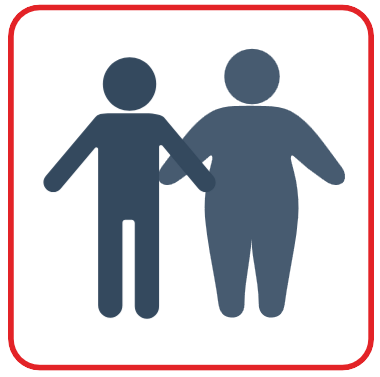
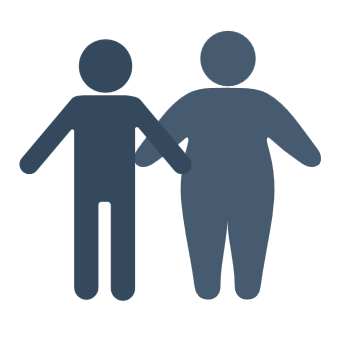
Updated snippets

Changed region(s): [[0.0, 0.0, 1.0, 1.0], [0.3824, 0.3529, 0.4412, 0.4412], [0.5294, 0.4118, 0.5588, 0.4706]]

diff --git a/index.html b/index.html
@@ -81,7 +81,9 @@
         <!-- Obesity -->
         <div class="dataset">
           <a href="modules/human_muscle_obesity.html">
+            <div class="framed-img">
             <img src="www/img/snippet/human_muscle_obesity.png" alt="Human Obesity">
+            </div>
             <h2>Obesity</h2>
           </a>
           <p>Human skeletal muscle alterations associated with obesity.</p>
@@ -90,7 +92,9 @@
         <!-- MetaMEx -->
         <div class="dataset">
           <a href="modules/MetaMEx.html">
-            <img src="www/img/snippet/MetaMEx.png" alt="MetaMEx" title="Explore MetaMEx">
+            <div class="framed-img">
+              <img src="www/img/snippet/MetaMEx.png" alt="MetaMEx" title="Explore MetaMEx">
+            </div>
             <h2>Exercise</h2>
           </a>
           <p>Transcriptomic adaptations to exercise and inactivity (MetaMEx).</p>
@@ -99,7 +103,9 @@
         <!-- Ageing -->
         <div class="dataset">
           <a href="modules/human_muscle_aging.html">
-            <img src="www/img/snippet/human_muscle_aging.png" alt="Aging muscle">
+            <div class="framed-img">
+              <img src="www/img/snippet/human_muscle_aging.png" alt="Aging muscle">
+            </div>
             <h2>Aging</h2>
           </a>
           <p>Skeletal muscle composition throughout the human lifespan.</p>
@@ -108,7 +114,9 @@
         <!-- VO2max -->
         <div class="dataset">
           <a href="modules/globalVO2max.html">
-            <img src="www/img/snippet/globalVO2max.png" alt="VO2max Reference">
+            <div class="framed-img">
+              <img src="www/img/snippet/globalVO2max.png" alt="VO2max Reference">
+            </div>
             <h2>V&#775;O<sub>2</sub>peak</h2>
           </a>
           <p>Worldwide reference values for peak oxygen uptake.</p>
@@ -127,7 +135,9 @@
         <!-- RNAseq -->
         <div class="dataset">
           <a href="modules/singleCellRNAseq.html">
-            <img src="www/img/snippet/singleCellRNAseq.png" alt="Single Cell RNAseq">
+            <div class="framed-img">
+               <img src="www/img/snippet/singleCellRNAseq.png" alt="Single Cell RNAseq">
+            </div>
             <h2>Single Cell</h2>
           </a>
           <p>Single-cell RNAseq of human skeletal muscle.</p>
@@ -136,7 +146,9 @@
         <!-- Fibers -->
         <div class="dataset">
           <a href="modules/fiber_types.html">
-            <img src="www/img/snippet/fiber_types.png" alt="Fiber Type">
+            <div class="framed-img">
+               <img src="www/img/snippet/fiber_types.png" alt="Fiber Type">
+            </div>
             <h2>Fiber Type</h2>
           </a>
           <p>Profiling of skeletal muscle type I and type II fibers.</p>
@@ -145,7 +157,9 @@
         <!-- Muscle Models -->
         <div class="dataset">
           <a href="modules/muscle_models.html">
-            <img src="www/img/snippet/muscle_models.png" alt="Muscle models">
+            <div class="framed-img">
+                <img src="www/img/snippet/muscle_models.png" alt="Muscle models">
+            </div>
             <h2>Muscle Models</h2>
           </a>
           <p>Transcriptome of C2C12, L6 and primary myotubes.</p>
@@ -154,7 +168,9 @@
         <!-- Sex -->       
         <div class="dataset">
           <a href="modules/human_muscle_sex.html">
-            <img src="www/img/snippet/human_muscle_sex.png" alt="Human Sex">
+            <div class="framed-img">
+              <img src="www/img/snippet/human_muscle_sex.png" alt="Human Sex">
+            </div>
             <h2>Sex</h2>
           </a>
           <p>Male and female skeletal muscle tissue and myotubes.</p>
@@ -173,7 +189,9 @@
         <!-- Clamp -->
         <div class="dataset">
           <a href="modules/muscle_clamp.html">
-            <img src="www/img/snippet/muscle_clamp.png" alt="Clamp in Human Muscle">
+            <div class="framed-img">
+              <img src="www/img/snippet/muscle_clamp.png" alt="Clamp in Human Muscle">
+            </div>
             <h2>Clamp</h2>
           </a>
           <p>Transcriptome of muscle under hyperinsulinemic euglycemic clamp.</p>
@@ -182,7 +200,9 @@
         <!-- Palmitate -->
         <div class="dataset">
           <a href="modules/myotube_palmitate.html">
-            <img src="www/img/snippet/myotube_palmitate.png" alt="Palmitate in Myotubes">
+            <div class="framed-img">
+              <img src="www/img/snippet/myotube_palmitate.png" alt="Palmitate in Myotubes">
+            </div>
             <h2>Palmitate</h2>
           </a>
           <p>Transcriptomic response of myotubes exposed to palmitate in vitro.</p>
@@ -191,7 +211,9 @@
         <!-- Electrical Pulse Stimulation -->
         <div class="dataset">
           <a href="modules/myotube_EPS.html">
-            <img src="www/img/snippet/myotube_EPS.png" alt="Electrical Pulse Stimulation">
+            <div class="framed-img">
+              <img src="www/img/snippet/myotube_EPS.png" alt="Electrical Pulse Stimulation">
+            </div>
             <h2>EPS</h2>
           </a>
           <p>Transcriptomic response to electrical pulse stimulation in myotubes.</p>
@@ -207,7 +229,9 @@
 
         <div class="dataset">
           <a href="other-tools.html">
-            <img src="www/img/snippet/0_template_app.png" alt="VO2max Reference">
+            <div class="framed-img">
+              <img src="www/img/snippet/0_template_app.png" alt="VO2max Reference">
+            </div>
             <h2>Other Tools</h2>
           </a>
           <p>Miscellaneous apps and datasets that don't fit in the main categories.</p>
@@ -215,7 +239,9 @@
 
         <div class="dataset">
           <a href="work-in-progress.html">
-            <img src="www/img/snippet/work_in_progress.png" alt="VO2max Reference">
+            <div class="framed-img">
+              <img src="www/img/snippet/work_in_progress.png" alt="VO2max Reference">
+            </div>
             <h2>In Progress</h2>
           </a>
           <p>Prototypes and apps under development. Expect bugs!</p>

diff --git a/work-in-progress.html b/work-in-progress.html
@@ -34,7 +34,9 @@
         <!-- Test App -->
         <div class="dataset">
           <a href="modules/0_template_app.html">
-            <img src="www/img/snippet/0_template_app.png" alt="Template App">
+            <div class="framed-img">
+              <img src="www/img/snippet/0_template_app.png" alt="Template App">
+            </div>
             <h2>Template App</h2>
           </a>
           <p>A template providing minimal R and HTML structure for integrating new apps into the repository.</p>
@@ -43,7 +45,9 @@
         <!-- Mouse high fat diet -->
         <div class="dataset">
           <a href="https://shiny.nicopillon.com/obesity_t2d/mouse_hfd_tissues_transcriptomics">
-            <img src="www/img/snippet/work_in_progress.png" alt="Mouse Obesity">
+            <div class="framed-img">
+              <img src="www/img/snippet/work_in_progress.png" alt="Mouse Obesity">
+            </div>
             <h2>Mouse High-fat Diet</h2>
           </a>
           <p>Transcriptomics analysis of skeletal muscle, adipose tissue and liver in mice exposed to high-fat diet.</p>
@@ -52,7 +56,9 @@
         <!-- Myoblasts vs Myotubes -->
         <div class="dataset">
           <a href="https://shiny.nicopillon.com/obesity_t2d/human_myotube_myoblast_t2d/">
-            <img src="www/img/snippet/work_in_progress.png" alt="Diabetic Myocytes">
+            <div class="framed-img">
+              <img src="www/img/snippet/work_in_progress.png" alt="Diabetic Myocytes">
+            </div>
             <h2>Diabetic Myocytes</h2>
           </a>
           <p>Transcriptome of myoblasts and myotubes grown in vitro from individuals with or without type 2 diabetes.</p>
@@ -61,7 +67,9 @@
         <!-- Myotube heterogeneity -->
         <div class="dataset">
           <a href="shiny.nicopillon.com/modules/0_work_in_progress/human_myotube_heterogeneity/">
-            <img src="www/img/snippet/work_in_progress.png" alt="Myotubes heterogeneity">
+            <div class="framed-img">
+              <img src="www/img/snippet/work_in_progress.png" alt="Myotubes heterogeneity">
+            </div>
             <h2>Myotube Heterogeneity</h2>
           </a>
           <p>Transcriptome of primary skeletal myotubes processed at different times with various methods.</p>
@@ -70,7 +78,9 @@
         <!-- Mouse Exercise -->
         <div class="dataset">
           <a href="https://shiny.nicopillon.com/exercise/mouse_exercise_tissues_transcriptomics">
-            <img src="www/img/snippet/work_in_progress.png" alt="Mouse Exercise">
+            <div class="framed-img">
+              <img src="www/img/snippet/work_in_progress.png" alt="Mouse Exercise">
+            </div>
             <h2>Mouse Exercise</h2>
           </a>
           <p>Transcriptomics analysis of skeletal muscle, adipose tissue and liver in mice after acute exercise.</p>
@@ -79,7 +89,9 @@
         <!-- Muscle scRNAseq -->
         <div class="dataset">
           <a href="https://shiny.nicopillon.com/exercise/muscle_scRNAseq_Lovric/">
-            <img src="www/img/snippet/work_in_progress.png" alt="Muscle scRNAseq">
+            <div class="framed-img">
+              <img src="www/img/snippet/work_in_progress.png" alt="Muscle scRNAseq">
+            </div>
             <h2>Single-cell RNAseq</h2>
           </a>
           <p>Exercise response in skeletal muscle analyzed by single-cell RNAseq from Lovrić et al, 2022.</p>

diff --git a/other-tools.html b/other-tools.html
@@ -31,7 +31,9 @@
         <!-- Scientific Niche -->
         <div class="dataset">
           <a href="modules/scientific_niche.html">
-            <img src="www/img/snippet/scientific_niche.png" alt="Scientific Niche">
+            <div class="framed-img">
+              <img src="www/img/snippet/scientific_niche.png" alt="Scientific Niche">
+            </div>
             <h2>Scientific Niche</h2>
           </a>
           <p>This app visualizes how a specific research topic intersects with broader scientific fields.</p>
@@ -40,7 +42,9 @@
         <!-- Macrophage polarization -->
         <div class="dataset">
           <a href="modules/macrophage_polarization.html">
-            <img src="www/img/snippet/macrophage_polarisation.png" alt="Macrophage polarization">
+            <div class="framed-img">
+              <img src="www/img/snippet/macrophage_polarisation.png" alt="Macrophage polarization">
+            </div>
             <h2>Polarized Macrophages</h2>
           </a>
           <p>Curated transcriptome of human and mouse macrophages polarized into M1/M2 phenotypes.</p>

diff --git a/www/style.css b/www/style.css
@@ -158,6 +158,23 @@ hr {
   border-radius: 10px;
 }
 
+/* Dataset card image styling */
+.framed-img {
+  border: 5px solid #c93f1e;       /* Frame border */
+  background-color: white;
+  border-radius: 25px;          /* Rounded corners */
+  padding: 0px;                 /* Space between image and frame */
+  overflow: hidden;             /* Ensures corners are clipped */
+}
+
+.framed-img img {
+  display: block;
+  border-radius: 25px;           /* Optional: rounds the image itself */
+  max-width: 100%;              /* Ensures responsiveness */
+  height: auto;
+}
+
+
 /* -------------------------------------------
    4. LINKS STYLING (Normal / Hover / Visited / Active)
 --------------------------------------------*/
